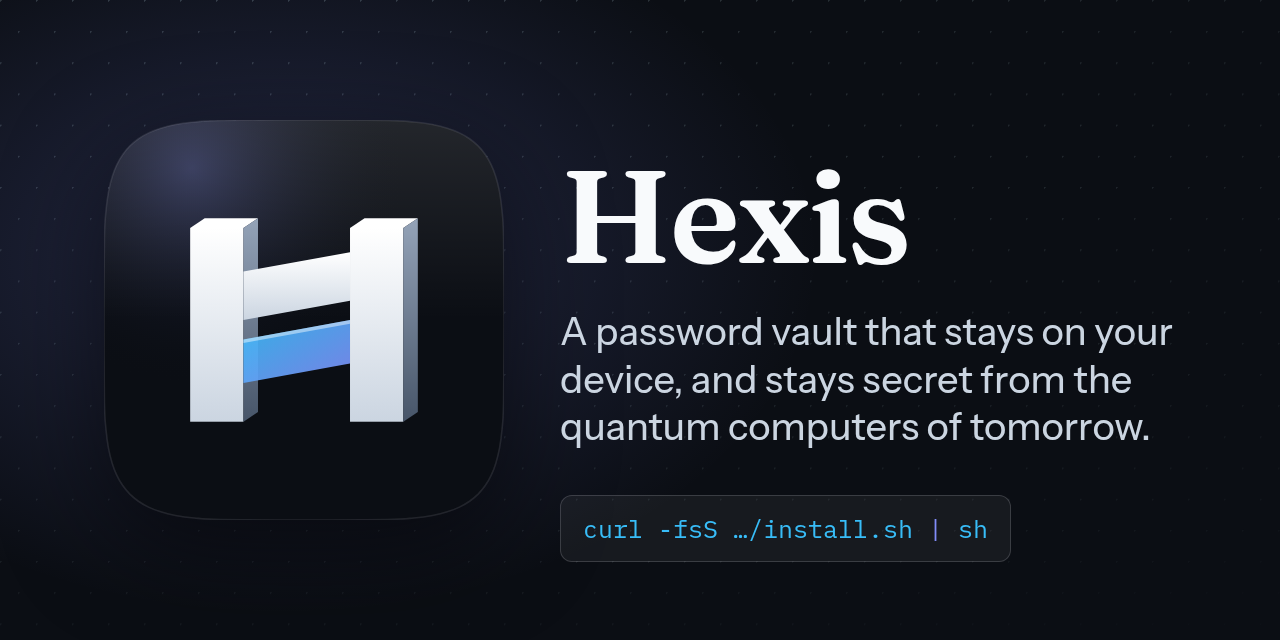
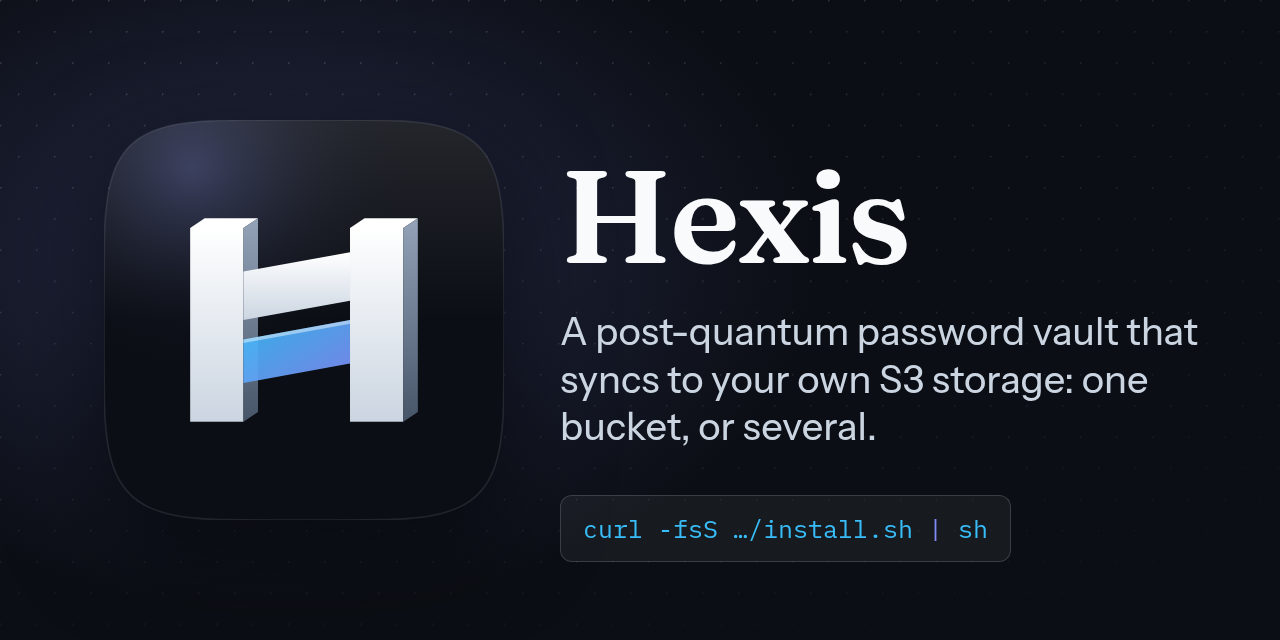
Move to post-quantum-passman-gst; lead with multi-S3 sync

Changed region(s): [[0.4375, 0.5, 0.9375, 0.625], [0.4375, 0.6562, 0.9062, 0.6875]]

diff --git a/scripts/tests/test_no_old_name.py b/scripts/tests/test_no_old_name.py
@@ -11,6 +11,11 @@ from pathlib import Path
 
 ROOT = Path(__file__).resolve().parent.parent.parent
 OLD = re.compile("pass" + "man", re.I)  # spelled in two halves so this file does not match itself
+# The repository's address contains the working title on purpose (chosen for search, ARCHITECTURE.md D9). It is a URL, not the
+# product name, so exactly this slug is not counted; any other use of the title still fails.
+REPO_SLUG = "post-quantum-" + "pass" + "man-gst"
+# The address before the repository was renamed. GitHub Pages does not redirect it, so a link to it is dead.
+DEAD_SLUG = re.compile("gst-pass-" + "OT", re.I)
 
 # Stored-format identifiers: renaming them would make existing vaults unreadable (ai-docs/CRYPTO_SPEC.md, "Frozen identifiers").
 FROZEN_FORMAT = {
@@ -21,7 +26,7 @@ FROZEN_LINE = re.compile(OLD.pattern + r"/(v1|gate/v1)", re.I)
 # Compatibility with data written before the rename (data folder, export extension, export field names).
 COMPATIBILITY = {"src-tauri/src/storage/legacy.rs", "src-tauri/src/importer/export.rs"}
 # History and the explanation of the rename itself.
-HISTORY = {"CHANGELOG.md", "ai-docs/ARCHITECTURE.md"}
+HISTORY = {"CHANGELOG.md", "ai-docs/ARCHITECTURE.md", "ai-docs/CHANGELOG_AND_STATE.md"}
 # Tests that assert the old name is absent.
 GUARDS = {"scripts/tests/test_release_notes.py", "scripts/tests/test_no_old_name.py"}
 
@@ -46,7 +51,7 @@ class NoOldName(unittest.TestCase):
             if b"\0" in data:
                 continue
             for n, line in enumerate(data.decode("utf-8", "replace").splitlines(), 1):
-                if not OLD.search(line):
+                if not OLD.search(line.replace(REPO_SLUG, "")):
                     continue
                 if f not in allowed:
                     stray.append(f"{f}:{n}: {line.strip()[:100]}")
@@ -56,6 +61,21 @@ class NoOldName(unittest.TestCase):
                         frozen_bad.append(f"{f}:{n}: {line.strip()[:100]}")
         self.assertEqual(stray, [], "the old product name is back; use Hexis (or add a reason to this test)")
         self.assertEqual(frozen_bad, [], "only the frozen format labels may keep the old spelling in these files")
+
+    def test_no_link_points_at_the_dead_pre_rename_address(self):
+        allowed = {"CHANGELOG.md", "ai-docs/CHANGELOG_AND_STATE.md", "scripts/tests/test_no_old_name.py"}
+        stray = []
+        for f in files():
+            p = ROOT / f
+            if f in allowed or not p.is_file() or p.is_symlink():
+                continue
+            data = p.read_bytes()
+            if b"\0" in data:
+                continue
+            for n, line in enumerate(data.decode("utf-8", "replace").splitlines(), 1):
+                if DEAD_SLUG.search(line):
+                    stray.append(f"{f}:{n}: {line.strip()[:100]}")
+        self.assertEqual(stray, [], "the repository was renamed to " + REPO_SLUG + "; use the new address")
 
     def test_the_product_name_is_set_where_the_build_reads_it(self):
         import json

diff --git a/scripts/release_notes.py b/scripts/release_notes.py
@@ -57,9 +57,10 @@ def build(version: str, repo: str, site: str, sums: str, changelog: str) -> str:
     new = shift_headings(changelog_section(changelog, version)) or f"See [CHANGELOG.md](https://github.com/{repo}/blob/v{version}/CHANGELOG.md)."
     table = downloads_table(sums)
     parts = [
-        f"**Hexis {version}** is a local-first password, one-time-code, note and file vault with post-quantum encryption "
-        "(ML-KEM-1024 with X25519, Argon2id, XChaCha20-Poly1305). Your vault lives on your device; backup to your own "
-        "S3-compatible storage is optional, and nothing is sent anywhere else.",
+        f"**Hexis {version}** is a password, one-time-code, note and file vault with post-quantum encryption "
+        "(ML-KEM-1024 with X25519, Argon2id, XChaCha20-Poly1305). It lives on your device and syncs, sealed, to the "
+        "S3-compatible storage you choose: one bucket, or several at once (a master and mirrors). Without a bucket it works "
+        "fully offline, and nothing is sent anywhere else.",
         "> Early software, not independently audited. Keep a separate backup of anything you cannot lose.",
         "## Install",
         "**Linux**, one command. It detects your system and installs the signed package for it, or a checked download:",

diff --git a/scripts/gen_icons.py b/scripts/gen_icons.py
@@ -67,7 +67,7 @@ p.tag { font-size:38px; line-height:1.25; margin:26px 0 0; color:#CBD5E1; font-w
 .cmd b { color:#818CF8; font-weight:400; }
 </style></head><body><div class="lattice"></div><div class="glow"></div>
 <div class="icon">@LOGO@</div>
-<div class="copy"><h1>Hexis</h1><p class="tag">A password vault that stays on your device, and stays secret from the quantum computers of tomorrow.</p></div>
+<div class="copy"><h1>Hexis</h1><p class="tag">A post-quantum password vault that syncs to your own S3 storage: one bucket, or several.</p></div>
 <div class="cmd">curl -fsS …/install.sh <b>|</b> sh</div>
 </body></html>"""
 

diff --git a/README.md b/README.md
@@ -2,12 +2,14 @@
 
 # Hexis
 
-**A local-first, zero-knowledge, post-quantum password manager** for passwords, one-time codes, secure notes and an
-encrypted file drive. No account, no server of ours, no telemetry of ours. Your vault is a file on your device; every
-byte that leaves it is ciphertext. (The one exception to "no telemetry" is Google's ML Kit inside the optional Android
-QR scanner; see [PRIVACY.md](PRIVACY.md).)
+**A zero-knowledge, post-quantum password manager that syncs to your own S3 storage: one bucket, or several at once.**
+Passwords, one-time codes, secure notes and an encrypted file drive live in a vault on your device. Add any
+S3-compatible storage (more than one if you like) and Hexis keeps sealed copies on all of them, so a lost phone or a
+lost provider loses nothing. No account, no server of ours, no telemetry of ours: every byte that leaves your device is
+ciphertext. (The one exception to "no telemetry" is Google's ML Kit inside the optional Android QR scanner; see
+[PRIVACY.md](PRIVACY.md).)
 
-[CI runs](../../actions/workflows/ci.yml) · [MIT licensed](LICENSE) · [Privacy](PRIVACY.md) · [Security policy](SECURITY.md)
+[Website](https://md8-habibullah.github.io/post-quantum-passman-gst/) · [CI runs](../../actions/workflows/ci.yml) · [MIT licensed](LICENSE) · [Privacy](PRIVACY.md) · [Security policy](SECURITY.md)
 
 > **Status: pre-1.0 and not independently audited.** The design, the tests and the honest list of what is *not*
 > verified are in [`ai-docs/CHANGELOG_AND_STATE.md`](ai-docs/CHANGELOG_AND_STATE.md). Keep a separate backup of anything you cannot lose.
@@ -17,13 +19,17 @@ The webview never sees a key, a seed or a master-password hash.
 
 ## Why Hexis
 
+* **Your own storage, as many as you want.** Sync goes straight from your device to S3-compatible buckets you own
+  (Amazon S3, Cloudflare R2, Backblaze B2, Wasabi, a MinIO on your own machine, and others that speak the S3 protocol).
+  Add several: one **master** that your other devices sync from, and any number of **mirrors** that receive every
+  change. No middleman server exists. Details in [Sync and backup](#sync-and-backup-to-your-own-s3-storage).
 * **Zero knowledge.** The master password and every key exist only in Rust memory while the vault is unlocked.
   Storage providers see ciphertext, object names, sizes and timestamps. Nothing else.
 * **Post-quantum ready.** The vault key is wrapped with a hybrid **ML-KEM-1024 + X25519** exchange; the password goes
   through **Argon2id** (64 MiB x 4 passes by default, configurable); items use **XChaCha20-Poly1305** with per-object HKDF sub-keys.
   Details and wire formats: [`CRYPTO_SPEC.md`](ai-docs/CRYPTO_SPEC.md).
-* **Local-first.** Everything works offline. Optional sync goes straight from your device to S3-compatible storage
-  (one primary target plus mirrors, a master backup, restore). No middleman server exists.
+* **Offline first.** Everything works without a network and without any bucket; sync is something you add, not
+  something you need.
 * **Quiet by design.** Sync runs on three triggers only: unlock, a saved change, and leaving the app. No timers, no
   background services, no notifications, no telemetry in Hexis's own code.
 * **Honest about limits.** The threat model says what is and is not protected. The optional Stage 1 gate is a privacy
@@ -37,11 +43,34 @@ The webview never sees a key, a seed or a master-password hash.
 | History | Immutable version history per item, trash with a two-step permanent delete, archive, clone |
 | Accounts | Several independent vaults per device, each with its own master password and its own backup targets |
 | Encrypted drive | Files up to 50 MB, chunked and authenticated, attachable to items; screen capture blocked while one is open on Android |
-| Sync and backup | S3-compatible targets over HTTPS, single-writer replication, pull-and-reconcile at unlock, restore into a new vault |
+| Sync and backup | Several S3-compatible targets at once (a master plus mirrors) over HTTPS, single-writer replication, pull-and-reconcile at unlock, per-target health, restore into a new vault |
 | Gate and panic | Optional Stage 1 gate (PIN, password or number grid) behind a decoy maths screen, a panic credential, an attempt limit with wipe, idle lock |
 | Disguise | Rename and re-icon the app (11 presets plus your own title), including the launcher icon on Android |
 | Import | About 25 formats recognised by content, with a preview, duplicate handling and one all-or-nothing transaction (see below) |
 | Export | Encrypted archive, or a readable Bitwarden-compatible JSON/CSV copy after a master-password re-prompt |
+
+## Sync and backup to your own S3 storage
+
+Hexis has no sync server. It writes sealed objects to buckets that belong to you, and it can write to several at once:
+
+* **Bring any S3-compatible storage.** Add each target on the **Backup** page with its endpoint, bucket and access
+  keys. The keys are stored sealed inside your vault, so you are never asked for them twice.
+* **A master and any number of mirrors.** The master is the copy your other devices sync from and the one that settles
+  disagreements. Mirrors receive every change from your device (same objects, same bytes), so losing one provider loses
+  nothing. Each target shows its health (healthy, lagging or failing), its queue and its last success; **Make master**
+  promotes a mirror after re-checking every object.
+* **Sealed before upload.** Items are encrypted on your device with keys that never leave it. A provider sees object
+  names, sizes and times, never content and never your master password.
+* **Several devices, no silent overwrites.** At unlock a device pulls from the master and reconciles by version, and a
+  push never overwrites remote data that device has not seen (the target shows `failing` with the reason instead).
+* **Restore anywhere.** Point a fresh install at a bucket, enter the master password, and the vault is rebuilt.
+* **Event-driven.** Sync runs when you unlock, save a change or leave the app: no timers, no background service, no
+  notifications.
+
+What is *not* verified yet: sync has been tested against Hexis's own local S3-compatible reference server
+(`scripts/mock_s3.py`, which checks AWS Signature V4 independently of the client), not against real AWS, Cloudflare,
+Backblaze, Wasabi or MinIO accounts. There is also no manual merge screen for two devices that edited the same item;
+the rules and what is built are in [`STORAGE_AND_SYNC.md`](ai-docs/STORAGE_AND_SYNC.md).
 
 ## Download
 
@@ -51,21 +80,21 @@ repository; Arch, CachyOS and Manjaro through a signed pacman repository; everyt
 tarball or AppImage under your home folder):
 
 ```
-curl -fsS https://md8-habibullah.github.io/gst-pass-OT/install.sh | sh
+curl -fsS https://md8-habibullah.github.io/post-quantum-passman-gst/install.sh | sh
 ```
 
-No `curl`? `wget -qO- https://md8-habibullah.github.io/gst-pass-OT/install.sh | sh`. Options go after `sh -s --`
+No `curl`? `wget -qO- https://md8-habibullah.github.io/post-quantum-passman-gst/install.sh | sh`. Options go after `sh -s --`
 (`--nightly`, `--version X.Y.Z`, `--user`, `--apk`, `--check`, `--update`, `--uninstall`, `--dry-run`, `--detect`, `--help`). Read the script
 first: it is [`scripts/install.sh`](scripts/install.sh), also shown at `/download/install-script/` on the site, and
 `--dry-run` prints every command without running one. What it does on each kind of system, and how to add the
-repositories by hand, is on the [Download page](https://md8-habibullah.github.io/gst-pass-OT/download/).
+repositories by hand, is on the [Download page](https://md8-habibullah.github.io/post-quantum-passman-gst/download/).
 
 **Update and remove.** The same script looks after an install later; your vaults are never touched:
 
 ```
-curl -fsS https://md8-habibullah.github.io/gst-pass-OT/install.sh | sh -s -- --check       # is there a newer version?
-curl -fsS https://md8-habibullah.github.io/gst-pass-OT/install.sh | sh -s -- --update      # update, the way it was installed
-curl -fsS https://md8-habibullah.github.io/gst-pass-OT/install.sh | sh -s -- --uninstall   # remove it
+curl -fsS https://md8-habibullah.github.io/post-quantum-passman-gst/install.sh | sh -s -- --check       # is there a newer version?
+curl -fsS https://md8-habibullah.github.io/post-quantum-passman-gst/install.sh | sh -s -- --update      # update, the way it was installed
+curl -fsS https://md8-habibullah.github.io/post-quantum-passman-gst/install.sh | sh -s -- --uninstall   # remove it
 ```
 
 An install from the package repository also updates with `apt upgrade`, `dnf upgrade`, `zypper update` or `pacman -Syu`;

diff --git a/CHANGELOG.md b/CHANGELOG.md
@@ -8,16 +8,22 @@ Where the project stands, what is verified and what is not: [`ai-docs/CHANGELOG_
 
 ## [Unreleased]
 
+### Changed
+
+* The repository moved to `post-quantum-passman-gst`. The website, the one-line installer and the package repositories now live at <https://md8-habibullah.github.io/post-quantum-passman-gst/>; GitHub does not redirect the old Pages address (`.../gst-pass-OT/`), so a machine that registered the package repository from there must run the installer once more. Links to `github.com/md8-habibullah/gst-pass-OT` still redirect. The product name is unchanged: Hexis.
+* The README, website, package descriptions, release notes and social preview now lead with multi-S3 sync (one bucket or several at once) instead of describing the app only as local-first.
+* `scripts/github-setup.sh apply` replaces the repository topics, and also enables secret scanning, push protection and Dependabot security updates; new `release-notes vX.Y.Z` rewrites a release description from this file.
+
 ## [0.1.0] - 2026-11-24
 
 First public build, under its final name: **Hexis**.
 
 ### Added
 
+* Multi-S3 sync and backup: any number of S3-compatible targets at once, one master that other devices sync from plus mirrors that receive every change, a health indicator per target, promotion of a mirror to master, and restore into a new vault. Event-driven (unlock, saved change, leaving the app), no timers.
 * Post-quantum vault: hybrid ML-KEM-1024 + X25519 key wrap, Argon2id password stretching, XChaCha20-Poly1305 items with HKDF sub-keys.
 * Items: logins, cards, identities, SSH keys, secure notes, media; RFC 6238 one-time codes with QR setup on phones; immutable version history, trash with two-step permanent delete, archive, clone.
 * Several accounts per device, each with its own master password.
-* S3-compatible backup and sync: one primary target plus mirrors, a master backup, restore into a new vault. Event-driven (unlock, saved change, leaving the app), no timers.
 * Optional Stage 1 gate (PIN, password or number grid) behind a decoy maths screen, panic credential, attempt limit with wipe, idle lock in the core.
 * App disguise: 11 name-and-icon presets plus a custom title, with launcher aliases on Android.
 * Encrypted 50 MB file drive (chunked, authenticated) with attachments.
@@ -37,6 +43,7 @@ First public build, under its final name: **Hexis**.
 ### Known limits
 
 * Not independently audited. The Stage 1 gate is a privacy screen, not encryption.
-* The package repositories exist only after a stable release is published and the signing key is set up (`scripts/github-setup.sh repo-key`); until then the installer downloads release files. There is no Linux build for aarch64.
+* The signed package repositories (apt, rpm, pacman) are built from the newest stable release; before one exists the installer downloads release files. There is no Linux build for aarch64.
+* Sync was tested against Hexis's own local S3-compatible reference server, not yet against real Amazon S3, Cloudflare R2, Backblaze B2, Wasabi or MinIO accounts. There is no manual merge screen for two devices that edited the same item.
 * Android: the file pickers return `content://` addresses, so import, drive add and save-a-copy do not work there yet.
 * Only Bitwarden web-vault JSON and Ente Auth plain text were checked against real exports.

diff --git a/ai-docs/CHANGELOG_AND_STATE.md b/ai-docs/CHANGELOG_AND_STATE.md
@@ -2,6 +2,18 @@
 
 Update this file after every major milestone. Newest entries first.
 
+## Update (2026-11-24, night): v0.1.0 published, repository public and renamed, multi-S3 sync is the headline
+
+**State on GitHub (checked from outside, without signing in):** the repository is public; `v0.1.0` is a published release marked Latest; all five files download anonymously and match `SHA256SUMS`; GitHub Pages is built with HTTPS enforced; private vulnerability reporting is on. The signed package repositories exist: the key on the site has fingerprint `A867 F074 B960 75BE 1E28 ED1B 9388 04F3 3177 B6FF`, the apt `InRelease` and `Release.gpg`, the rpm `repomd.xml.asc` and the pacman `hexis.db.sig` all verify with it, and the `.deb` hash in the apt index equals the release file's. The APK (`-testkey`, signed with a throw-away CI key) is arm64-v8a only, minSdk 28 (Android 9), targetSdk 37, v3 signature, permissions limited to internet, camera, biometrics and network state, with the default launcher entry enabled and the 11 disguise aliases off.
+
+**Rename:** the repository is now `md8-habibullah/post-quantum-passman-gst` (was `gst-pass-OT`). The product is still Hexis; the slug is only a URL (ARCHITECTURE.md D9) and `scripts/tests/test_no_old_name.py` allows exactly that slug and fails on any link to the dead pre-rename address. GitHub redirects git and web URLs but **not Pages**: `https://md8-habibullah.github.io/gst-pass-OT/` answers 404. Everything that names the site is derived at build time (`@REPO@` and `@SITE@` in the installer, `GITHUB_REPOSITORY` in CI, `configure-pages` in `pages.yml`), so only the README had the old address written out. The site that was live right after the rename still carried the old address inside `install.sh` and `hexis.repo` because it had been built a minute before; any Pages run (a push touching the paths in `pages.yml`, or `workflow_dispatch`) rebuilds it with the new one. The v0.1.0 release description was written with the old address; `scripts/github-setup.sh release-notes v0.1.0` rewrites it. Nothing inside the release files names the address, so the release itself does not need to be cut again.
+
+**Positioning:** README, site, package descriptions, release notes, the social preview and the repository description now lead with multi-S3 sync (one bucket or several: a master plus mirrors) instead of "local-first" alone.
+
+**Open:** secret scanning, push protection and Dependabot security updates were found disabled on the public repository; `scripts/github-setup.sh apply` now turns them on and also replaces the topics (20 at most).
+
+**Not verified:** sync against real S3 providers (AWS, R2, B2, Wasabi, MinIO, Storj) and real TLS or clock skew, only `scripts/mock_s3.py`; the one-line installer pasted from the live site on fresh distributions (CI runs the same installer against local copies of the repositories on eight images, all passed; a run against the live site was started and stopped because of the rename); the apps on a real desktop window and a real phone.
+
 ## Update (2026-11-24, evening): first CI run, the one-line installer, signed package repositories
 
 **First run on GitHub (the owner's push, commit `maga-v2`):** all jobs passed (`checks`, `e2e`, `site`, `linux`, `android`, `nightly`); the `nightly` pre-release holds the deb, rpm, AppImage, tar.gz, the

diff --git a/ai-docs/ARCHITECTURE.md b/ai-docs/ARCHITECTURE.md
@@ -1,4 +1,4 @@
-# ARCHITECTURE — Hexis (post-quantum, zero-knowledge, local-first vault)
+# ARCHITECTURE — Hexis (post-quantum, zero-knowledge vault with offline-first multi-S3 sync)
 
 Read this first, then `CRYPTO_SPEC.md` (wire formats), `STORAGE_AND_SYNC.md` (data + sync), `BUILD_TARGETS.md` (packaging), `CHANGELOG_AND_STATE.md` (what exists now).
 
@@ -228,7 +228,7 @@ Crates are added in the phase that uses them so builds stay light on the low-RAM
 | D6 | Per-object sub-keys via HKDF labels | Domain separation between item/version/attachment/meta. |
 | D7 | NFKC-normalized master password | Cross-platform unlock consistency. One-way door, decided before any vault exists. |
 | D8 | One-shot AEAD up to 64 MiB | Simplicity now; chunked envelope later for big media. |
-| D9 | The product is **Hexis**, the app identifier `dev.habibullah.hexis` (decided 2026-11-24; the first builds used a working name). | An Android applicationId cannot change after a release. The old desktop data folder (`app.passman.vault`) is adopted on first start (`storage/legacy.rs`). The stored format keeps its historical identifiers (the `passman/v1/...` HKDF labels, the `PMV1` file id): changing them would make every existing vault unreadable, so they are frozen, see `CRYPTO_SPEC.md`. |
+| D9 | The product is **Hexis**, the app identifier `dev.habibullah.hexis` (decided 2026-11-24; the first builds used a working name). | An Android applicationId cannot change after a release. The old desktop data folder (`app.passman.vault`) is adopted on first start (`storage/legacy.rs`). The stored format keeps its historical identifiers (the `passman/v1/...` HKDF labels, the `PMV1` file id): changing them would make every existing vault unreadable, so they are frozen, see `CRYPTO_SPEC.md`. The repository's address, `post-quantum-passman-gst`, was chosen for search and is only a URL (2026-11-24); it is not the product name. |
 | D10 | The re-prompt guard sends the master password with each gated call and the core re-verifies it with Argon2id; nothing is cached on either side. Edits use a single-use token bound to item and version (10 min TTL, cleared on lock). | Spec: the guard must hold even while unlocked. No "recently confirmed" state means nothing to steal or bypass; the token stops a stale or replayed edit. |
 | D11 | UI direction "Strongroom": dark only, bespoke tokens, three adaptive layouts, one orchestrated animation (unlock) | The user rejected a terminal or generic look and asked for a 1Password / Proton Pass / Keychain feel with glass, crisp type and tactile elevation. Details in `UI_DESIGN_SYSTEM.md`. |
 | D12 | The frontend talks to a `Backend` interface; a DEV-only in-memory implementation exists for design review and is excluded from production bundles | Lets the UI be reviewed in a browser at Android widths without the GUI stack. Guarded by `import.meta.env.DEV`; verified absent from `dist/`. |
